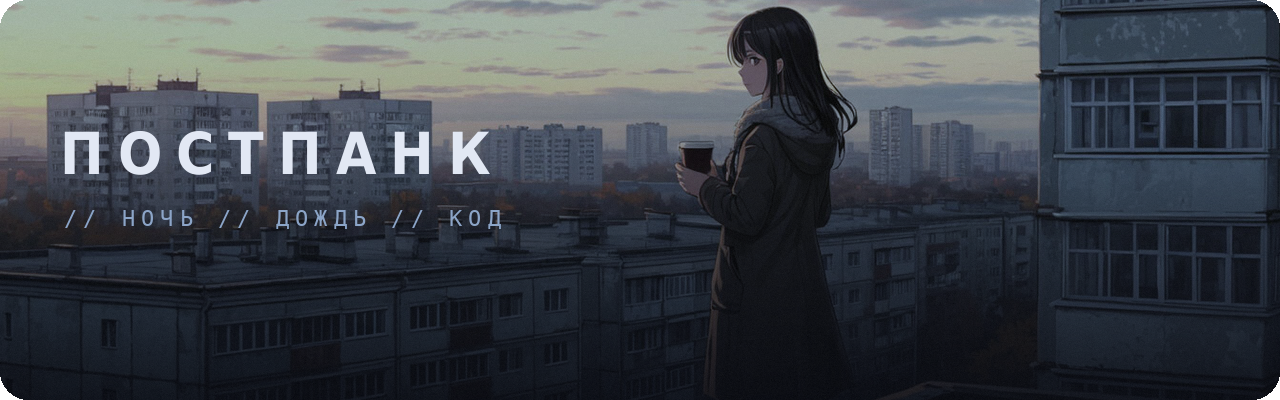
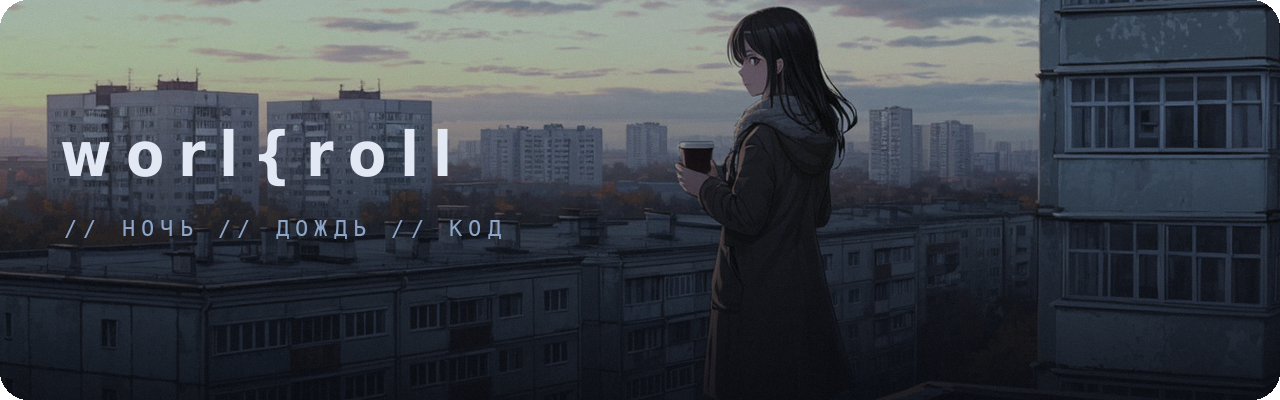
Add files via upload

Changed region(s): [[0.0312, 0.3, 0.4062, 0.48], [0.0312, 0.51, 0.4062, 0.6]]

diff --git a/README.md b/README.md
@@ -2,10 +2,10 @@
 
 <img src="assets/rain.gif" width="100%" alt="night rain banner">
 
-[![Typing SVG](https://readme-typing-svg.demolab.com?font=JetBrains+Mono&size=22&duration=3000&pause=800&color=7FA6D4&center=true&vCenter=true&width=600&lines=%2F%2F+backend+%D0%BF%D0%BE%D0%B4+%D0%B7%D0%B2%D1%83%D0%BA+%D0%B4%D0%BE%D0%B6%D0%B4%D1%8F;%D0%BD%D0%BE%D1%87%D1%8C+%E2%80%A2+%D0%BF%D0%BE%D1%81%D1%82%D0%BF%D0%B0%D0%BD%D0%BA+%E2%80%A2+%D1%82%D0%B5%D1%80%D0%BC%D0%B8%D0%BD%D0%B0%D0%BB)](https://git.io/typing-svg)
+[![Typing SVG](https://readme-typing-svg.demolab.com?font=JetBrains+Mono&size=22&duration=3000&pause=800&color=7FA6D4&center=true&vCenter=true&width=600&lines=%2F%2F+backend+%D0%BF%D0%BE%D0%B4+%D0%B7%D0%B2%D1%83%D0%BA+%D0%B4%D0%BE%D0%B6%D0%B4%D1%8F;%D0%BD%D0%BE%D1%87%D1%8C+%E2%80%A2+%D1%80%D0%BE%D0%BA+%E2%80%A2+%D1%82%D0%B5%D1%80%D0%BC%D0%B8%D0%BD%D0%B0%D0%BB)](https://git.io/typing-svg)
 
-<img src="https://img.shields.io/badge/mood-ночной_дождь-0d1117?style=for-the-badge&labelColor=0d1117&color=1a2634">
-<img src="https://img.shields.io/badge/genre-post--punk-0d1117?style=for-the-badge&labelColor=0d1117&color=1a2634">
+<img src="https://img.shields.io/badge/mood-сервер_не_спит-0d1117?style=for-the-badge&labelColor=0d1117&color=1a2634">
+<img src="https://img.shields.io/badge/genre-rock-0d1117?style=for-the-badge&labelColor=0d1117&color=1a2634">
 <img src="https://img.shields.io/badge/role-backend-0d1117?style=for-the-badge&labelColor=0d1117&color=1a2634">
 
 </div>
@@ -19,14 +19,14 @@ $ whoami
 > backend-разработчик, пишет код, когда город спит
 
 $ cat /etc/motd
-> дождь по крышам, сервер в проде, бас на всю катушку.
+> дождь по крышам, сервер в проде, гитара в наушниках.
 > фронт трогаю редко и только по мелочи.
 
 $ ps aux | grep me
 > c++  python  go  |  linux  git  docker  bash
 ```
 
-<img src="assets/about.png" width="100%" alt="railway at dusk">
+<br clear="right">
 
 <br>
 
@@ -34,25 +34,34 @@ $ ps aux | grep me
 
 <div align="center">
 
-`То, что крутится в наушниках, пока собирается продакшн`
+`то, что крутится в наушниках, пока собирается продакшн`
 
 <br>
 
-<img src="https://img.shields.io/badge/Joy%20Division-Unknown%20Pleasures-111827?style=flat-square&labelColor=0d1117">
-<img src="https://img.shields.io/badge/Bauhaus-In%20the%20Flat%20Field-111827?style=flat-square&labelColor=0d1117">
-<img src="https://img.shields.io/badge/Siouxsie%20and%20the%20Banshees-Juju-111827?style=flat-square&labelColor=0d1117">
-<img src="https://img.shields.io/badge/The%20Cure-Disintegration-111827?style=flat-square&labelColor=0d1117">
-<img src="https://img.shields.io/badge/Кино-Группа%20крови-111827?style=flat-square&labelColor=0d1117">
-<img src="https://img.shields.io/badge/АукцЫон-Дорога-111827?style=flat-square&labelColor=0d1117">
-<img src="https://img.shields.io/badge/Зоопарк-Белая%20полоса-111827?style=flat-square&labelColor=0d1117">
-<img src="https://img.shields.io/badge/Molchat%20Doma-Судно-111827?style=flat-square&labelColor=0d1117">
-<img src="https://img.shields.io/badge/Плейлист%20для%20дебага-lofi%20%2B%20rain%20%2B%20post--punk-1f2937?style=flat-square&labelColor=111827">
+[![Aphex Twin](assets/card-aphextwin.png)](https://music.yandex.ru/artist/11087)
+[![Samadhi Maze](assets/card-samadhimaze.png)](https://music.yandex.ru/artist/10280353)
+[![Сруб](assets/card-srub.png)](https://music.yandex.ru/artist/4741972)
+
+<br>
+
+[![Лабарум](assets/btn-artist-labarum.png)](https://music.yandex.ru/artist/21264536)
+[![Буйноголовушка](assets/btn-artist-buinogolovushka.png)](https://music.yandex.ru/artist/15735215)
+[![Rammstein](assets/btn-artist-rammstein.png)](https://music.yandex.ru/artist/13002)
+[![Batushka](assets/btn-artist-batushka.png)](https://music.yandex.ru/artist/6314173)
+[![Gospod](assets/btn-artist-gospod.png)](https://music.yandex.ru/search?text=Gospod)
+[![Black Sabbath](assets/btn-artist-blacksabbath.png)](https://music.yandex.ru/search?text=Black%20Sabbath)
+[![Ka$tro](assets/btn-artist-kastro.png)](https://music.yandex.ru/search?text=Ka%24tro)
+[![Чернобыль](assets/btn-artist-chernobyl.png)](https://music.yandex.ru/artist/20001064)
+[![Schwarzer Engel](assets/btn-artist-schwarzerengel.png)](https://music.yandex.ru/artist/556109)
+[![Гражданская Оборона](assets/btn-artist-grob.png)](https://music.yandex.ru/artist/42528)
 
 </div>
 
 <br>
 
 <img src="assets/header-projects.png" width="100%" alt="проекты">
+
+<div align="center">
 
 | Проект | Что это | Стек |
 |---|---|---|
@@ -62,10 +71,8 @@ $ ps aux | grep me
 | 📦 **`deploy-for-the-dead`** | Набор bash-скриптов деплоя: бэкапы, роллбэк, алёрты | `Bash` `Docker` |
 | 🔧 **`cpp-toys`** | Песочница на C++: многопоточка, сети, свои контейнеры | `C++20` `CMake` |
 
-<div align="center">
-
-[![Repo Card](https://github-readme-stats.vercel.app/api/pin/?username=USERNAME&repo=night-rain-cli&theme=github_dark&bg_color=0d1117&title_color=7fa6d4&icon_color=4c6a92&border_color=1a2634)](https://github.com/USERNAME/night-rain-cli)
-[![Repo Card](https://github-readme-stats.vercel.app/api/pin/?username=USERNAME&repo=panelka-api&theme=github_dark&bg_color=0d1117&title_color=7fa6d4&icon_color=4c6a92&border_color=1a2634)](https://github.com/USERNAME/panelka-api)
+[![Repo Card](https://github-readme-stats.vercel.app/api/pin/?username=worltroll&repo=night-rain-cli&theme=github_dark&bg_color=0d1117&title_color=7fa6d4&icon_color=4c6a92&border_color=1a2634&border_radius=16)](https://github.com/worltroll/night-rain-cli)
+[![Repo Card](https://github-readme-stats.vercel.app/api/pin/?username=worltroll&repo=panelka-api&theme=github_dark&bg_color=0d1117&title_color=7fa6d4&icon_color=4c6a92&border_color=1a2634&border_radius=16)](https://github.com/worltroll/panelka-api)
 
 </div>
 
@@ -77,27 +84,27 @@ $ ps aux | grep me
 
 **основное — backend**
 
-[![C++](https://img.shields.io/badge/C%2B%2B-0d1117?style=for-the-badge&logo=c%2B%2B&logoColor=7fa6d4)](https://isocpp.org/)
-[![Python](https://img.shields.io/badge/Python-0d1117?style=for-the-badge&logo=python&logoColor=7fa6d4)](https://www.python.org/)
-[![Go](https://img.shields.io/badge/Go-0d1117?style=for-the-badge&logo=go&logoColor=7fa6d4)](https://go.dev/)
+[![C++](assets/btn-stack-cpp.png)](https://isocpp.org/)
+[![Python](assets/btn-stack-python.png)](https://www.python.org/)
+[![Go](assets/btn-stack-go.png)](https://go.dev/)
 
 **иногда — фронт по мелочи**
 
-[![JavaScript](https://img.shields.io/badge/JavaScript-0d1117?style=for-the-badge&logo=javascript&logoColor=7fa6d4)](https://developer.mozilla.org/ru/docs/Web/JavaScript)
-[![TypeScript](https://img.shields.io/badge/TypeScript-0d1117?style=for-the-badge&logo=typescript&logoColor=7fa6d4)](https://www.typescriptlang.org/)
-[![React](https://img.shields.io/badge/React-0d1117?style=for-the-badge&logo=react&logoColor=7fa6d4)](https://react.dev/)
+[![JavaScript](assets/btn-stack-js.png)](https://developer.mozilla.org/ru/docs/Web/JavaScript)
+[![TypeScript](assets/btn-stack-ts.png)](https://www.typescriptlang.org/)
+[![React](assets/btn-stack-react.png)](https://react.dev/)
 
 **инструменты**
 
-[![Linux](https://img.shields.io/badge/Linux-0d1117?style=for-the-badge&logo=linux&logoColor=7fa6d4)](https://www.kernel.org/)
-[![Git](https://img.shields.io/badge/Git-0d1117?style=for-the-badge&logo=git&logoColor=7fa6d4)](https://git-scm.com/)
-[![Docker](https://img.shields.io/badge/Docker-0d1117?style=for-the-badge&logo=docker&logoColor=7fa6d4)](https://www.docker.com/)
-[![Bash](https://img.shields.io/badge/Bash-0d1117?style=for-the-badge&logo=gnubash&logoColor=7fa6d4)](https://www.gnu.org/software/bash/)
+[![Linux](assets/btn-stack-linux.png)](https://www.kernel.org/)
+[![Git](assets/btn-stack-git.png)](https://git-scm.com/)
+[![Docker](assets/btn-stack-docker.png)](https://www.docker.com/)
+[![Bash](assets/btn-stack-bash.png)](https://www.gnu.org/software/bash/)
 
-<img src="https://github-readme-stats.vercel.app/api?username=worltroll&show_icons=true&theme=github_dark&bg_color=0d1117&title_color=7fa6d4&icon_color=4c6a92&text_color=c9d4e3&border_color=1a2634&hide_border=false" width="49%">
-<img src="https://github-readme-stats.vercel.app/api/top-langs/?username=worltroll&layout=compact&theme=github_dark&bg_color=0d1117&title_color=7fa6d4&text_color=c9d4e3&border_color=1a2634" width="40%">
+<img src="https://github-readme-stats.vercel.app/api?username=worltroll&show_icons=true&theme=github_dark&bg_color=0d1117&title_color=7fa6d4&icon_color=4c6a92&text_color=c9d4e3&border_color=1a2634&border_radius=16" width="49%">
+<img src="https://github-readme-stats.vercel.app/api/top-langs/?username=worltroll&layout=compact&theme=github_dark&bg_color=0d1117&title_color=7fa6d4&text_color=c9d4e3&border_color=1a2634&border_radius=16" width="40%">
 
-<img src="https://github-readme-streak-stats.herokuapp.com?user=worltroll&theme=github-dark-blue&background=0D1117&border=1A2634&ring=7FA6D4&fire=4C6A92&currStreakLabel=7FA6D4" width="60%">
+<img src="https://github-readme-streak-stats.herokuapp.com?user=worltroll&theme=github-dark-blue&background=0D1117&border=1A2634&ring=7FA6D4&fire=4C6A92&currStreakLabel=7FA6D4&border_radius=16" width="60%">
 
 </div>
 
@@ -111,13 +118,13 @@ $ ps aux | grep me
 
 <br>
 
-[![Telegram](https://img.shields.io/badge/@worltroll-0d1117?style=for-the-badge&logo=telegram&logoColor=7fa6d4)](https://t.me/worltroll)
-[![Yandex Mail](https://img.shields.io/badge/pakhomov.vs%40yandex.ru-0d1117?style=for-the-badge&logo=yandex&logoColor=7fa6d4)](mailto:pakhomov.vs@yandex.ru)
-[![Gmail](https://img.shields.io/badge/pakhomov.vse%40gmail.com-0d1117?style=for-the-badge&logo=gmail&logoColor=7fa6d4)](mailto:pakhomov.vse@gmail.com)
+[![Telegram](assets/btn-contact-tg.png)](https://t.me/worltroll)
+[![Yandex Mail](assets/btn-contact-ya.png)](mailto:pakhomov.vs@yandex.ru)
+[![Gmail](assets/btn-contact-gmail.png)](mailto:pakhomov.vse@gmail.com)
 
 <br>
 
-<img src="https://komarev.com/ghpvc/?username=worltroll&label=%D0%BF%D1%80%D0%BE%D1%81%D0%BC%D0%BE%D1%82%D1%80%D1%8B&color=1a2634&style=flat-square">
+<img src="https://komarev.com/ghpvc/?username=worltroll&label=%D0%BF%D1%80%D0%BE%D1%81%D0%BC%D0%BE%D1%82%D1%80%D1%8B&color=1a2634&style=for-the-badge">
 
 </div>
 
